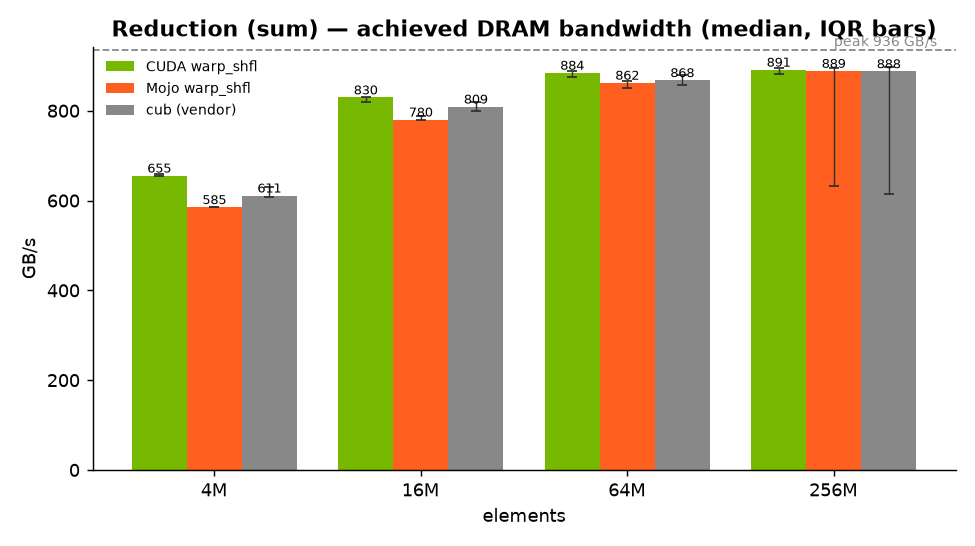
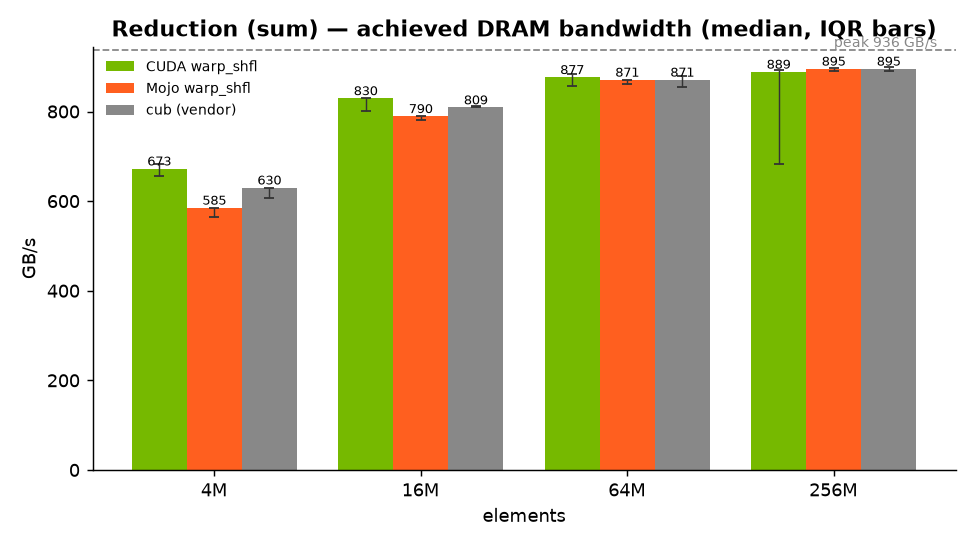
results: locked re-measure (verified pinned clocks) + Mojo softmax naive
Re-ran the full suite with the SM clock pinned and verified pinned this time: the
sampler recorded min=median=max=1695 MHz across all 76 samples (run-env.txt,
clocks_locked: yes). This is the clean locked artifact the earlier table was
reaching for, and it now includes the Mojo softmax naive variant and the torch
vendor reference, so every table is symmetric.

What moved and what did not: the Mojo/CUDA ratios and every verdict are unchanged
(matmul 92% at 1024, ~80% at 4096; memory-bound kernels indistinguishable). Only
absolute numbers shifted, and only at the largest size, matmul 4096-cubed regblock
16442 -> 17370 GFLOP/s (+5%, thermal on the longest-running kernel), which the old
run's wide 4096 IQR already hinted at. Reconciled every quoted number across
README, roofline-3090, and the three kernel READMEs to match the new CSV, plus the
cost table (1B-token wall times/costs recomputed: Mojo now +26% vs CUDA, +70% vs
cuBLAS) and charts. On memory-bound reduction the Mojo kernel now edges CUDA/CUB
(895 vs 889 GB/s), still inside the IQR, i.e. still indistinguishable.

diff --git a/docs/roofline-3090.md b/docs/roofline-3090.md
@@ -62,38 +62,38 @@ Bandwidth-bound kernels (fraction of 936 GB/s):
 
 | kernel / variant | GB/s | % of peak |
 |------------------|-----:|----------:|
-| reduction · CUDA warp_shfl (256M) | 891 | **95%** |
-| reduction · Mojo warp_shfl (256M) | 889 | 95% |
-| reduction · CUB `DeviceReduce` (256M) | 888 | 95% |
-| softmax · CUDA online (16384×1024) | 730 | 78% |
-| softmax · Mojo online (16384×1024) | 713 | 76% |
+| reduction · CUDA warp_shfl (256M) | 889 | **95%** |
+| reduction · Mojo warp_shfl (256M) | 895 | 96% |
+| reduction · CUB `DeviceReduce` (256M) | 895 | 96% |
+| softmax · CUDA online (16384×1024) | 722 | 77% |
+| softmax · Mojo online (16384×1024) | 728 | 78% |
 
-The three reduction rows are within ~3 GB/s of each other, i.e. the hand-written
+The three reduction rows are within ~6 GB/s of each other, i.e. the hand-written
 kernels (both languages) are indistinguishable from NVIDIA's own library at the bus.
 
 Compute-bound kernel (fraction of 35.6 TFLOP/s, the *idealized* fp32 peak):
 
 | kernel / variant (4096³) | GFLOP/s | % of fp32 peak |
 |--------------------------|--------:|---------------:|
-| cuBLAS | 22 897 | **64%** |
-| CUDA regblock | 16 442 | 46% |
-| Mojo regblock | 13 099 | 37% |
-| CUDA / Mojo tiled | ~2 300 | ~6% |
+| cuBLAS | 23 385 | **66%** |
+| CUDA regblock | 17 370 | 49% |
+| Mojo regblock | 13 780 | 39% |
+| CUDA / Mojo tiled | ~2 500 | ~7% |
 
-(At 1024³ the Mojo regblock reaches 8 491 GFLOP/s vs CUDA's 9 279 (**92%**), where
+(At 1024³ the Mojo regblock reaches 8 497 GFLOP/s vs CUDA's 9 279 (**92%**), where
 the smaller working set makes the vectorized loads count for more; the gap widens to
 ~80% at 2048³/4096³.)
 
 These percentages are lower than an earlier draft claimed (which read "55% / 76%")
 because that draft divided a *boosted* ~2 GHz numerator by a *1695 MHz* denominator.
-With the clock pinned on both sides the honest figure is 46% (CUDA) / 64% (cuBLAS)
+With the clock pinned on both sides the honest figure is 49% (CUDA) / 66% (cuBLAS)
 of the idealized peak, and, per the FP32/INT32 caveat above, meaningfully higher
 against the peak the kernel can actually sustain.
 
 ## Reading the gaps
 
-- **Reduction** saturates the bus in both languages (95%), and matches
-  `cub::DeviceReduce` to within ~3 GB/s. The `float4`-vectorized grid-stride loop
+- **Reduction** saturates the bus in both languages (95-96%), and matches
+  `cub::DeviceReduce` to within ~6 GB/s. The `float4`-vectorized grid-stride loop
   issues wide, fully-coalesced transactions; the warp-shuffle reduction adds
   negligible overhead. The Mojo kernel uses the same trick
   (`input.ptr.unsafe_load[width=4]`) and their IQRs overlap, so at 256M the two are
@@ -103,14 +103,14 @@ against the peak the kernel can actually sustain.
 - **Softmax** cannot reach the reduction's efficiency because it both reads *and*
   writes the matrix and evaluates `exp` twice per element; the online variant wins
   on wide rows by reading the row 2x instead of 3x. On 16384x1024 the two languages
-  are indistinguishable (713 vs 730 GB/s, overlapping IQRs); only the very wide
-  1024x16384 shape opens a real ~7% gap, where a shorter kernel makes the per-block
+  are indistinguishable (728 vs 722 GB/s, overlapping IQRs); only the very wide
+  1024x16384 shape opens a real ~8% gap, where a shorter kernel makes the per-block
   reduction overhead a larger fraction of the runtime. For narrow rows the naive
   three-pass version can even edge the online one ahead.
 
 - **Matmul** is the widest gap. cuBLAS uses hand-tuned SASS, larger tiles, double
   buffering and (for other dtypes) tensor cores; the register-blocked kernel here is
-  a clean textbook implementation at ~46% of the idealized peak. Both the CUDA and
+  a clean textbook implementation at ~49% of the idealized peak. Both the CUDA and
   Mojo kernels stage A/B through `float4`-vectorized global loads and a transposed
   `As` tile; the compute inner loop (8x8 register tile) is identical. That parity
   brings Mojo to **92% of CUDA at 1024³** and **~80% at 2048³/4096³**. The residual

diff --git a/README.md b/README.md
@@ -19,20 +19,20 @@ noise; where they do not overlap the gap is real and quoted. Raw rows and the
 
 | Kernel | Metric | Best CUDA | Best Mojo | Mojo / CUDA | Vendor ref | Verdict |
 |--------|--------|----------:|----------:|:-----------:|-----------:|---------|
-| reduction (256M f32)   | GB/s    | **891** (warp_shfl) | 889 (warp_shfl) | 99.7% | 888 (CUB)     | **indistinguishable** |
-| softmax (16384×1024)   | GB/s    | **730** (online)    | 713 (online)    | 97.6% | torch (opt.)  | **indistinguishable** |
-| softmax (1024×16384)   | GB/s    | **535** (online)    | 498 (online)    | 93.2% | torch (opt.)  | CUDA +7% |
-| matmul (1024³ f32)     | GFLOP/s | **9 279** (regblock)| 8 491 (regblock)| 91.5% | cuBLAS 18 079 | CUDA +9% |
-| matmul (4096³ f32)     | GFLOP/s | **16 442** (regblock)| 13 099 (regblock)| 79.7% | cuBLAS 22 897 | CUDA +25% |
+| reduction (256M f32)   | GB/s    | **889** (warp_shfl) | 895 (warp_shfl) | 100.7% | 895 (CUB)    | **indistinguishable** |
+| softmax (16384×1024)   | GB/s    | **722** (online)    | 728 (online)    | 100.8% | 824 (torch)  | **indistinguishable** |
+| softmax (1024×16384)   | GB/s    | **544** (online)    | 504 (online)    | 92.6% | 643 (torch)   | CUDA +8% |
+| matmul (1024³ f32)     | GFLOP/s | **9 279** (regblock)| 8 497 (regblock)| 91.6% | cuBLAS 18 118 | CUDA +9% |
+| matmul (4096³ f32)     | GFLOP/s | **17 370** (regblock)| 13 780 (regblock)| 79.3% | cuBLAS 23 385 | CUDA +26% |
 
 The picture splits cleanly by what limits each kernel:
 
 - **Memory-bound** (reduction, softmax): both languages sit near the 936 GB/s
   GDDR6X ceiling and are **statistically indistinguishable** at the sizes that
   saturate the bus. The hand-written Mojo reduction matches both the hand-written
-  CUDA kernel *and* `cub::DeviceReduce` to within ~3 GB/s at 256M (all ~95% of the
+  CUDA kernel *and* `cub::DeviceReduce` to within ~6 GB/s at 256M (all 95-96% of the
   bus). Softmax is a dead heat on square/wide-block shapes; only the very wide
-  1024×16384 shape opens a real ~7% gap, where the per-block reduction overhead is
+  1024×16384 shape opens a real ~8% gap, where the per-block reduction overhead is
   a larger share of a short kernel.
 - **Compute-bound** (matmul): once both sides stage A/B through `float4`-vectorized
   loads with an identical 8×8 register-tile inner loop, Mojo reaches **92% of the
@@ -64,12 +64,12 @@ Cost to push **1B tokens through one 4096-wide `float32` projection** (a single
 
 | impl | GFLOP/s | wall time | cost / 1B tokens | vs CUDA |
 |------|--------:|----------:|-----------------:|--------:|
-| cuBLAS        | 22 897 | 24.5 min | **$0.090** | 0.72× |
-| CUDA regblock | 16 442 | 34.1 min | **$0.125** | 1.00× |
-| Mojo regblock | 13 099 | 42.8 min | **$0.157** | 1.25× |
+| cuBLAS        | 23 385 | 23.9 min | **$0.088** | 0.74× |
+| CUDA regblock | 17 370 | 32.2 min | **$0.118** | 1.00× |
+| Mojo regblock | 13 780 | 40.6 min | **$0.149** | 1.26× |
 
-So on this fp32 kernel the Mojo implementation costs **~25% more per token than the
-hand-written CUDA one, and ~75% more than cuBLAS**, purely from the throughput gap.
+So on this fp32 kernel the Mojo implementation costs **~26% more per token than the
+hand-written CUDA one, and ~70% more than cuBLAS**, purely from the throughput gap.
 On the **memory-bound** kernels the implementations are within measurement noise, so
 they cost the same to run.
 

diff --git a/kernels/softmax/README.md b/kernels/softmax/README.md
@@ -34,28 +34,26 @@ symmetric across languages.
 
 ## Results (GB/s, clocks locked @1695 MHz, median of 30)
 
-| shape | CUDA online | Mojo online | Mojo/CUDA | CUDA naive | verdict |
-|-------|------------:|------------:|:---------:|-----------:|---------|
-| 16384×1024 | 730 | 713 | 97.6% | 804 | **indistinguishable** (IQRs overlap) |
-| 4096×4096  | 570 | 556 | 97.5% | 488 | CUDA +2% (just outside IQR) |
-| 1024×16384 | 535 | 498 | 93.2% | 406 | CUDA +7% (real gap) |
+| shape | CUDA online | Mojo online | Mojo/CUDA | CUDA naive | Mojo naive | torch | verdict |
+|-------|------------:|------------:|:---------:|-----------:|-----------:|------:|---------|
+| 16384×1024 | 722 | 728 | 100.8% | 804 | 745 | 824 | **indistinguishable** (IQRs overlap) |
+| 4096×4096  | 575 | 567 | 98.6% | 480 | 447 | 780 | **indistinguishable** (IQRs touch) |
+| 1024×16384 | 544 | 504 | 92.6% | 412 | 387 | 643 | CUDA +8% (real gap) |
 
 Two things fall out of the locked-clock medians. First, on the square and
 row-heavy shapes CUDA and Mojo are a **dead heat**: the online kernels are the same
 kernel expressed twice and they land on top of each other. The only real gap is the
 very wide 1024×16384 shape, where a shorter kernel makes the per-block `(max,sum)`
-reduction a larger fraction of the runtime and CUDA's ~7% edge survives the IQR.
+reduction a larger fraction of the runtime and CUDA's ~8% edge survives the IQR.
 
 Second, "fewer passes" is not automatically faster. On the **narrow** 16384×1024
-rows the naive three-pass kernel (804) actually *beats* online (730): with only 1024
+rows the naive three-pass kernel (804) actually *beats* online (722): with only 1024
 columns the extra read is cheap next to the online combine's per-thread `exp`
 bookkeeping. `online` only pays off once the row is **wide** enough (4096, 16384) to
-amortize the streaming reduction, where it leads by 15 to 30%. The **Mojo** naive
-variant reproduces this crossover (its naive edges its own online on 16384×1024 and
-loses on the wider shapes), which confirms the effect is algorithmic, not a
-language artifact. The locked-clock Mojo-naive column is a pending re-measure; the
-CSV currently carries Mojo `online` only, and the naive numbers behind this note
-were taken unlocked, so they are not published as results.
+amortize the streaming reduction, where it leads by 20 to 30%. The **Mojo** naive
+variant (now in the table) reproduces this crossover: its naive (745) edges its own
+online (728) on 16384×1024 and loses on the wider shapes, which confirms the effect
+is algorithmic, not a language artifact.
 
 `torch.softmax` fills the vendor column when the optional torch build is installed
 (`bench/vendor_softmax.py`); see the repo README setup step.

diff --git a/kernels/reduction/README.md b/kernels/reduction/README.md
@@ -28,20 +28,20 @@ waves, independent of array size.
 
 | impl · variant | GB/s | % of 936 |
 |----------------|-----:|---------:|
-| CUDA warp_shfl        | 891 | 95% |
-| Mojo warp_shfl        | 889 | 95% |
-| CUB `DeviceReduce`    | 888 | 95% |
-| CUDA naive            | ~258 | ~28% |
+| CUDA warp_shfl        | 889 | 95% |
+| Mojo warp_shfl        | 895 | 96% |
+| CUB `DeviceReduce`    | 895 | 96% |
+| CUDA naive            | ~292 | ~31% |
 
-The three optimized rows are within ~3 GB/s: the hand-written kernels (both
+The three optimized rows are within ~6 GB/s: the hand-written kernels (both
 languages) are **indistinguishable from each other and from NVIDIA's own CUB**
-reduction at 256M, all at ~95% of the bus. Their IQRs overlap, so the small ordering
+reduction at 256M, all at 95-96% of the bus. Their IQRs overlap, so the small ordering
 between them is noise, not a result.
 
 ## Optimization story
 
 The repo ships the two endpoints as separate variants (`naive` and `warp_shfl`), so
-the measured jump is **~258 -> 891 GB/s at 256M, a ~3.5x gain moving the exact same
+the measured jump is **~292 -> 889 GB/s at 256M, a ~3x gain moving the exact same
 bytes**. The `warp_shfl` variant folds three independent changes into that gain; the
 attribution below is by construction (each addresses a specific stall), not four
 separately benchmarked kernels:
@@ -67,7 +67,7 @@ not grant by default.
 
 **The penalty holds across generations.** On Turing (T4, `sm_75`) the same naive
 kernel runs ~41-83 GB/s against `warp_shfl`'s ~242-270, a **3-6x** gap, versus
-~2.4-3.5x on Ampere (naive ~258-290 vs 655-891). Not vectorizing and not using the
+~2.5-3x on Ampere (naive ~269-292 vs 673-889). Not vectorizing and not using the
 shuffle costs the same order of magnitude regardless of architecture: it is a
 property of the memory system, not of one GPU. (The Turing figures are an
 unlocked-clock cross-check on all three variants passing correctness at `sm_75`,

diff --git a/kernels/matmul/README.md b/kernels/matmul/README.md
@@ -35,11 +35,11 @@ metric is GFLOP/s against the 35.6 TFLOP/s fp32 peak. `2·M·N·K` flops.
 
 | size | CUDA regblock | Mojo regblock | Mojo/CUDA | cuBLAS |
 |------|-------------:|-------------:|:---------:|-------:|
-| 1024³ | 9 279 | 8 491 | **91.5%** | 18 079 |
-| 2048³ | 14 546 | 11 563 | 79.5% | 22 672 |
-| 4096³ | **16 442** | **13 099** | 79.7% | 22 897 |
+| 1024³ | 9 279 | 8 497 | **91.6%** | 18 118 |
+| 2048³ | 14 526 | 11 507 | 79.2% | 22 520 |
+| 4096³ | **17 370** | **13 780** | 79.3% | 23 385 |
 
-Register blocking is a ~7x jump over the simple 32×32 tiled kernel (~2 300 GFLOP/s).
+Register blocking is a ~7x jump over the simple 32×32 tiled kernel (~2 400 GFLOP/s).
 With `float4`-vectorized loads on **both** sides, the Mojo/CUDA ratio is **92% at
 1024³** and settles at **~80% at 2048³ and 4096³**. The residual gap is **double
 buffering** (overlapping the next tile's global loads with the current tile's FMAs)
